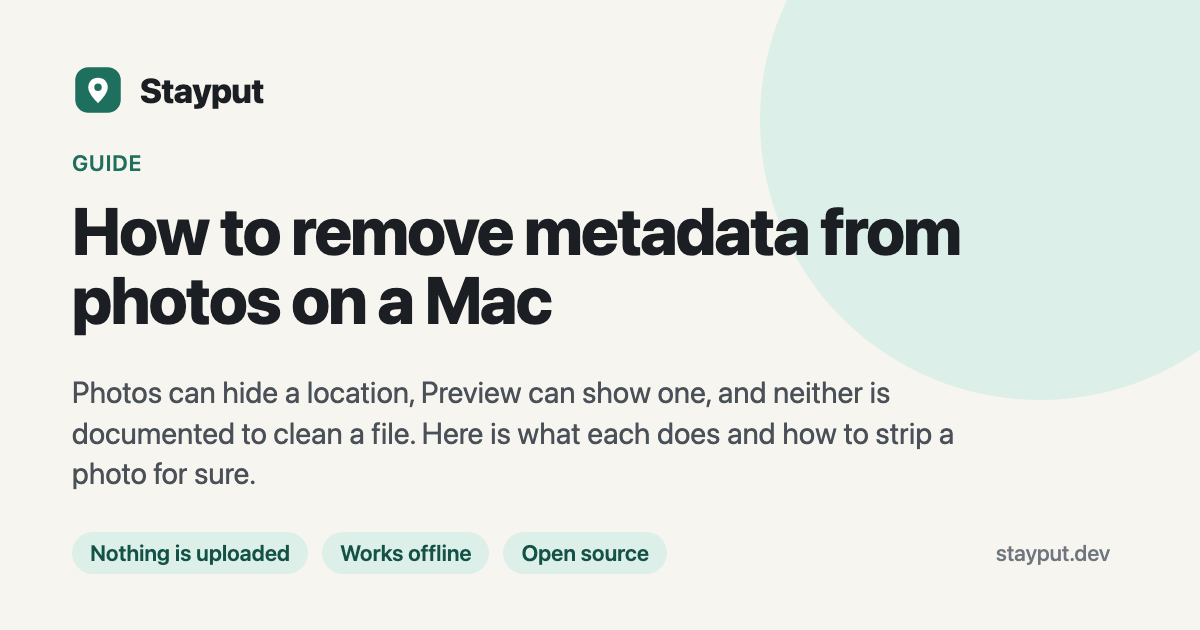
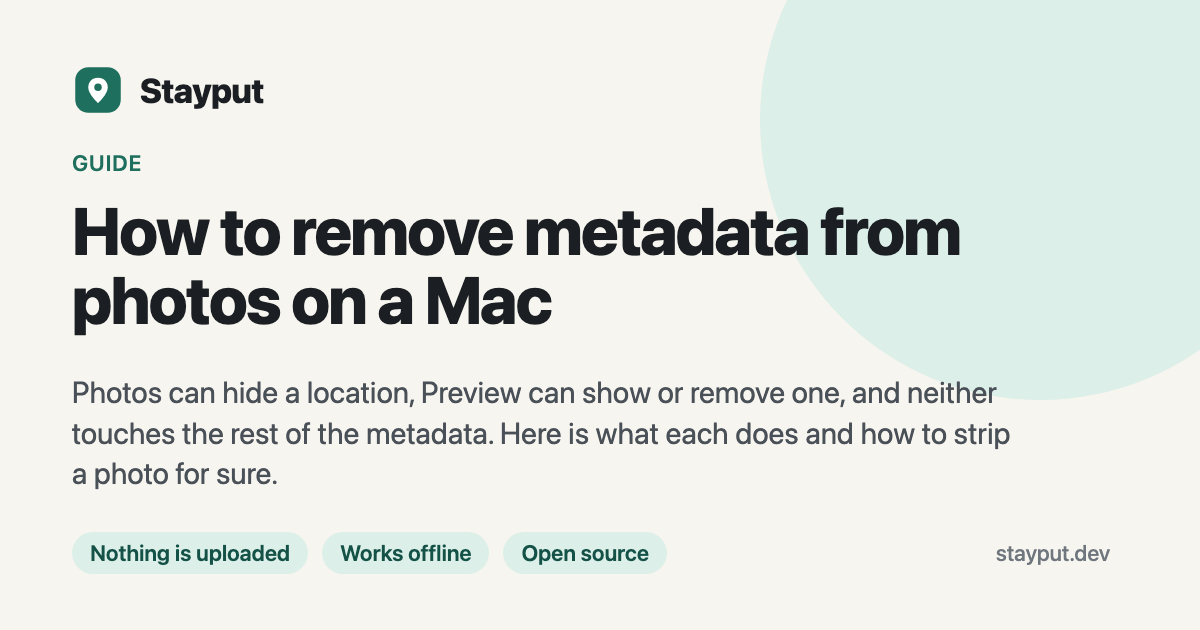
Reword the Windows and Mac guides to match what is sourced
Windows: drop the version-specific claims. The page now says what to click
in File Explorer and that Microsoft's published description is an older
tip, so the dialog may differ on your version. Title no longer names
Windows versions.

Mac: Preview's Inspector has a Remove Location Info button (location only);
the page now says so and points to the EXIF viewer to check the result.
Replace a paraphrase that was in quotation marks with the menu names.

Changed region(s): [[0.0617, 0.6032, 0.8325, 0.7841]]

diff --git a/src/data/guides.ts b/src/data/guides.ts
@@ -4086,7 +4086,7 @@ export const guides: Guide[] = [
   },
   {
     slug: "remove-exif-data-from-photos-on-windows",
-    title: "How to Remove Metadata (EXIF) From a Photo on Windows 10 and 11",
+    title: "How to Remove Metadata (EXIF) From a Photo on Windows",
     description: "Remove metadata, EXIF and GPS data from photos on Windows: the File Explorer option, what it leaves alone, and a lossless way to clean a whole folder in your browser.",
     heading: "How to remove metadata from a photo on Windows",
     dek: "File Explorer can strip some metadata from a photo. Here is how, what it does not promise, and how to clean a whole folder without re-saving the pictures.",
@@ -4096,7 +4096,7 @@ export const guides: Guide[] = [
     sections: [
       {
         h: "The built-in way: Remove Properties and Personal Information",
-        p: ["Windows has a metadata scrubber in File Explorer, and it works on several photos at once. Select one or more photos, right-click and choose **Properties**, open the **Details** tab and click **Remove Properties and Personal Information** at the bottom. This is the dialog Microsoft documents for Windows 7, and Windows 10 and 11 still have it.", "The dialog gives you two choices:"],
+        p: ["File Explorer has a metadata scrubber, and it works on several photos at once. Select one or more photos, right-click and choose **Properties**, open the **Details** tab and click **Remove Properties and Personal Information** at the bottom. Microsoft's only published description of this dialog that we found is an archived tip written for Windows 7, so what you see may differ a little on your version of Windows.", "The dialog gives you two choices:"],
         list: ["**Create a copy with all possible properties removed.** The default. Windows makes a copy with the word Copy added to the file name and strips every property it is able to change for that file type. Your original keeps its metadata.", "**Remove the following properties from this file.** You tick the properties to delete and click OK, and they are removed from the original permanently. A property with no check box next to it is one Windows cannot edit."],
       },
       {
@@ -4124,18 +4124,18 @@ export const guides: Guide[] = [
     title: "How to Remove Metadata and EXIF Data From Photos on a Mac",
     description: "What Photos, Preview and the Terminal can do about photo metadata on a Mac, and a lossless way to strip EXIF and GPS from JPG, PNG and WebP in your browser.",
     heading: "How to remove metadata from photos on a Mac",
-    dek: "Photos can hide a location, Preview can show one, and neither is documented to clean a file. Here is what each does and how to strip a photo for sure.",
+    dek: "Photos can hide a location, Preview can show or remove one, and neither touches the rest of the metadata. Here is what each does and how to strip a photo for sure.",
     keywords: ["remove metadata from photo mac", "remove exif data mac", "strip exif macos", "mac remove gps from photo", "remove exif data mac terminal"],
     updated: "2026-10-03",
     tools: ["strip-exif", "exif-viewer", "remove-location-from-photos"],
     sections: [
       {
         h: "The Photos app: Hide Location",
-        p: ["In Photos, select the pictures, choose **Image**, **Location**, then **Hide Location**. Apple's Photos guide describes the same menu as the way to \"remove or restore a photo's original location\": **Revert to Original Location** brings it back, so the location is hidden from view rather than erased from your library.", "This only concerns location, not the date or the camera. Apple's guide also does not say what the file contains after you export or share it, so treat an exported photo as unchecked until you have looked at it (see below)."],
+        p: ["In Photos, select the pictures, choose **Image**, **Location**, then **Hide Location**. Apple's Photos guide lists **Hide Location** and **Revert to Original Location** in that menu, and Revert brings it back, so the location is hidden from view rather than erased from your library.", "This only concerns location, not the date or the camera. Apple's guide also does not say what the file contains after you export or share it, so treat an exported photo as unchecked until you have looked at it (see below)."],
       },
       {
-        h: "Preview shows the location, it is not documented to remove it",
-        p: ["Open a photo in Preview and choose **Tools**, **Show Location Info**, then click the **More Info** inspector button and the **GPS** tab. Apple's Preview guide documents this as a way to see where a photo was taken on a map. The command is dimmed when the photo has no location, which makes it a quick test for whether a photo carries GPS data. Apple's guide describes viewing, not removing, so use Preview to look and a remover to clean."],
+        h: "Preview: see the location, or remove it",
+        p: ["Open a photo in Preview and choose **Tools**, **Show Location Info**, then click the **More Info** inspector button and the **GPS** tab. Apple's Preview guide documents this as a way to see where a photo was taken on a map. The command is dimmed when the photo has no location, which makes it a quick test for whether a photo carries GPS data. In that same Inspector section Preview also has a **Remove Location Info** button (next to **Change Location Info**). Apple's Preview guide describes only viewing, so treat the button as a location-only fix: it does not touch the date, the camera model or the other EXIF fields, and it is worth checking the saved file afterwards with the [EXIF viewer](/tools/exif-viewer)."],
       },
       {
         h: "In the Terminal with ExifTool",
@@ -4152,7 +4152,7 @@ export const guides: Guide[] = [
     ],
     faq: [
       { q: "Does Hide Location in Photos remove the GPS data from the file?", a: "Apple describes it as hiding the location in Photos, and Revert to Original Location restores it, so the original file still has it. Apple does not say what an exported or shared copy contains. Run the copy through the [EXIF remover](/tools/strip-exif) to be sure." },
-      { q: "Can Preview remove location data?", a: "Apple's Preview guide documents viewing a photo's location (Tools, Show Location Info, GPS tab), not removing it. Use the [EXIF remover](/tools/strip-exif) to remove it." },
+      { q: "Can Preview remove location data?", a: "Yes, location only: Preview's Inspector has a Remove Location Info button. Apple's Preview guide documents viewing the location (Tools, Show Location Info), not the button, and the date and camera details stay. Use the [EXIF remover](/tools/strip-exif) to remove everything, and check the result with the [EXIF viewer](/tools/exif-viewer)." },
       { q: "Will removing EXIF data change how the photo looks?", a: "Not for a JPG, PNG or WebP cleaned with the [EXIF remover](/tools/strip-exif): the picture data is copied unchanged. The only exception is a sideways photo with the orientation option ticked, which is re-encoded." },
       { q: "Do I need to install anything on my Mac?", a: "Not for the browser tool, and you can install it as an app from the browser menu to use it offline. ExifTool is a separate install." },
     ],
